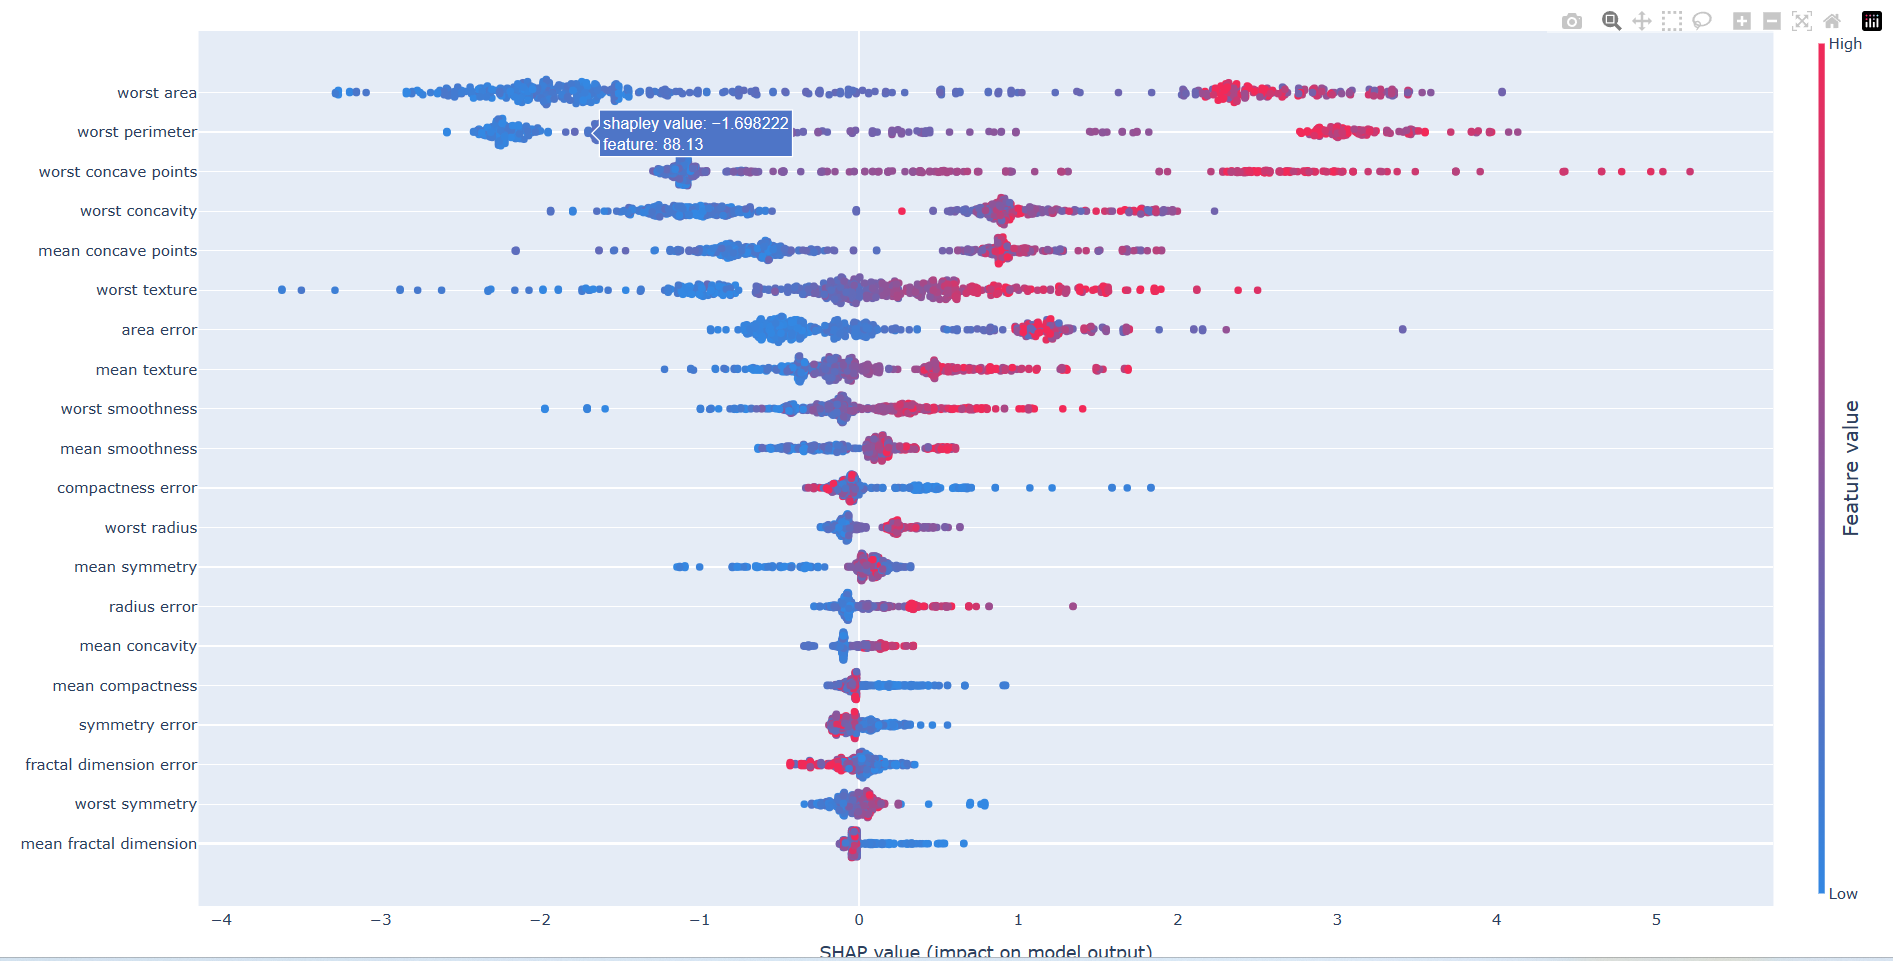
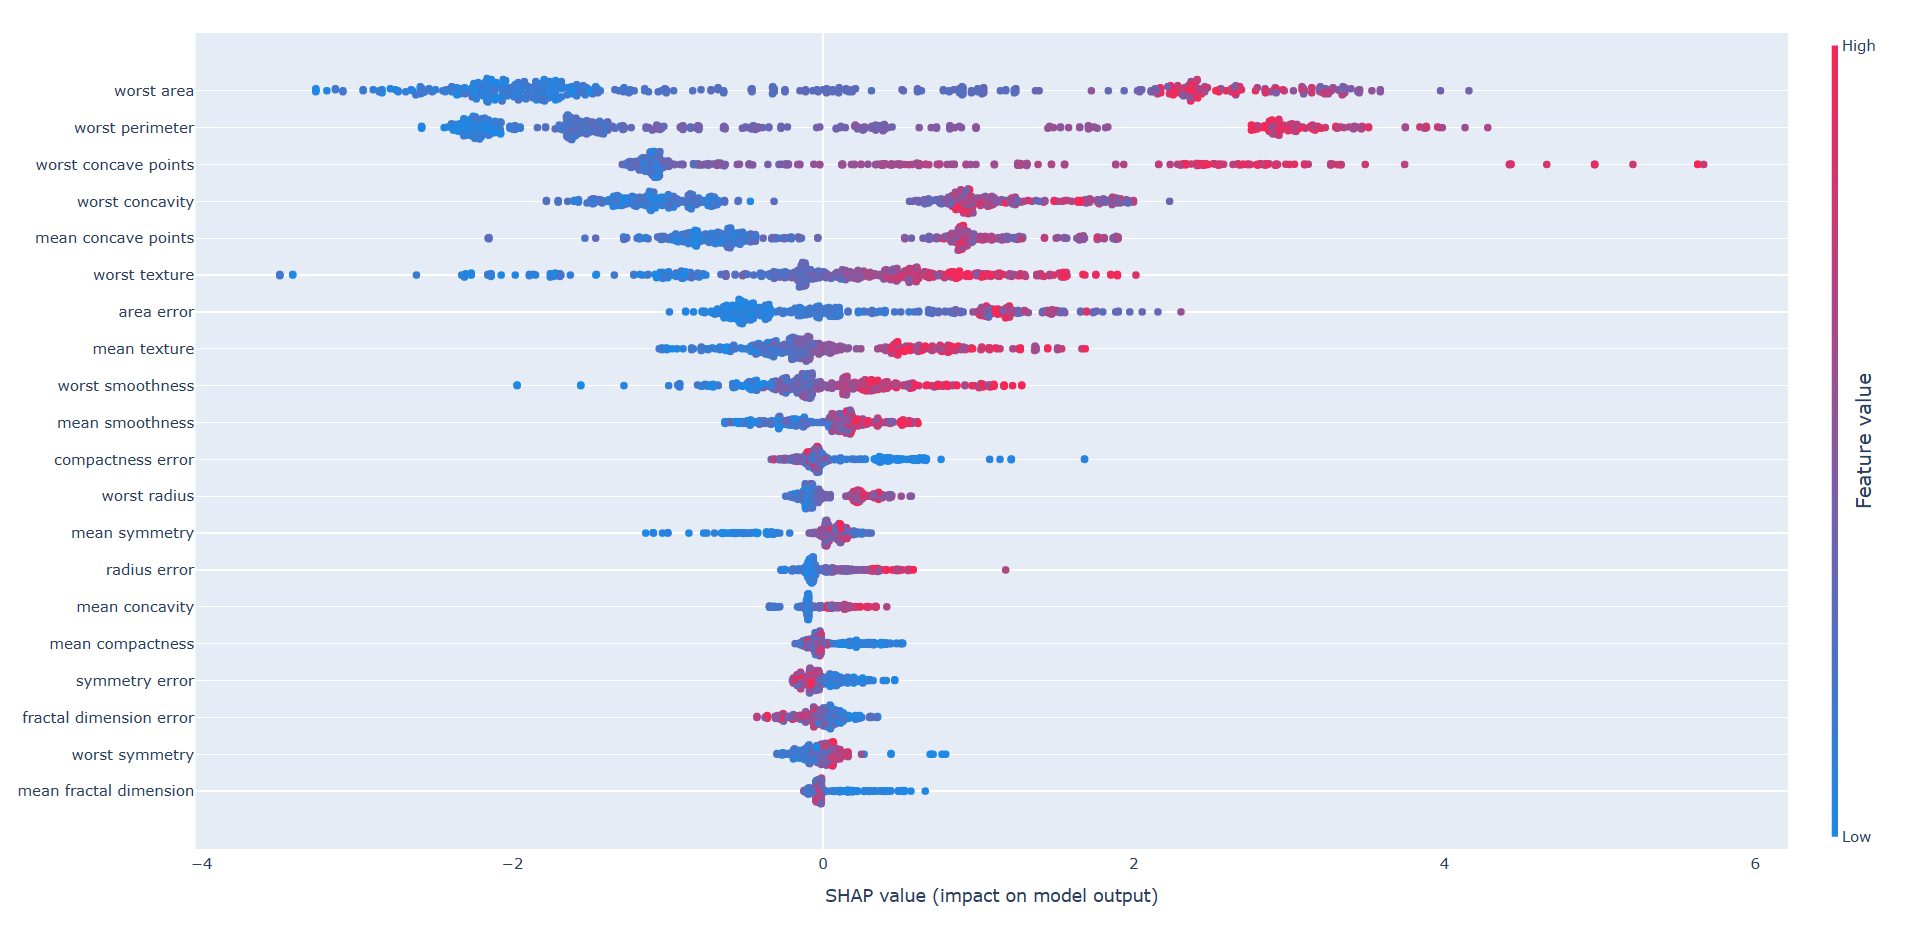
update styles and doc

diff --git a/plots/waterfall.py b/plots/waterfall.py
@@ -2,12 +2,12 @@ import json
 
 import numpy as np
 import plotly.graph_objects as go
-import shap
 
 from .utils import *
 
 
 def render_waterfall(values, feature_names, E_fx, fx, show=False):
+    values = np.round(values, 2)
     fig = go.Figure(
         go.Waterfall(
             orientation="h",
@@ -15,10 +15,13 @@ def render_waterfall(values, feature_names, E_fx, fx, show=False):
             measure=["relative" for _ in range(len(values))],
             y=feature_names,
             x=values,
-            connector={
-                "mode": "between",
-                "line": {"width": 4, "color": "rgb(0, 0, 0)", "dash": "solid"},
-            },
+            texttemplate="%{delta}",
+            textangle=0,
+            decreasing=dict(marker=dict(color="rgb(30, 136, 229)")),
+            increasing=dict(marker=dict(color="rgb(245, 39, 87)")),
+            totals=dict(marker=dict(color="#444444")),
+            connector=dict(line={"width": 4, "color": "#fff"}),
+            textposition="inside",
         )
     )
     fig.add_vline(
@@ -33,8 +36,9 @@ def render_waterfall(values, feature_names, E_fx, fx, show=False):
         annotation_text=f"f(x) = {fx:.2f}",
         annotation_position="top",
     )
+    fig.update_layout(**DEFAULT_LAYOUT)
     if show:
-        fig.show()
+        fig.show(config=DEFAULT_CONFIG)
     return fig.to_plotly_json()
 
 
@@ -77,4 +81,4 @@ def waterfall_plotly(
     fig_json = render_waterfall(values, feature_names, E_fx, fx, show=verbose)
     if save_to is not None:
         with open(save_to, "w", encoding="utf8") as f:
-            json.dump(fig_json, f)
+            json.dump(fig_json, f, cls=NumpyEncoder)

diff --git a/plots/partial_dependence.py b/plots/partial_dependence.py
@@ -6,7 +6,7 @@ import pandas as pd
 import plotly.graph_objects as go
 import shap
 
-from .utils import NumpyEncoder
+from .utils import DEFAULT_CONFIG, DEFAULT_LAYOUT, NumpyEncoder
 
 
 def partial_dependence_plotly(
@@ -81,9 +81,17 @@ def partial_dependence_plotly(
         x0, y0 = shap_values.data[ind], model_expected_value
         x1, y1 = shap_values.data[ind], model(shap_values.data.reshape(1, -1))[0]
         print(x0, y0)
-        fig.add_shape(type="line", x0=x0, y0=y0, x1=x1, y1=y1)
+        fig.add_shape(
+            type="line",
+            x0=x0,
+            y0=y0,
+            x1=x1,
+            y1=y1,
+            line=dict(color="rgb(30, 136, 229)"),
+        )
         fig.add_trace(go.Scatter(x=[x1], y=[y1], mode="markers", hoverinfo="x+y"))
     fig.update_layout(
+        **DEFAULT_LAYOUT,
         xaxis_title_text=target_name,
         yaxis_title_text=f"E[f(x) | {target_name}]",
         yaxis=dict(showgrid=False, autorange=True),
@@ -91,11 +99,9 @@ def partial_dependence_plotly(
             visible=False, overlaying="y", range=[0, features.shape[0]], showgrid=False
         ),
         showlegend=False,
-        paper_bgcolor="white",
-        plot_bgcolor="white",
     )
     if verbose:
-        fig.show()
+        fig.show(config=DEFAULT_CONFIG)
     if save_to is not None:
         with open(save_to, "w", encoding="utf8") as f:
             json.dump(fig.to_plotly_json(), f, cls=NumpyEncoder)

diff --git a/test/testall.py b/test/testall.py
@@ -6,13 +6,13 @@ import sklearn.datasets as D
 from plots import *
 
 
-def load_data(return_data=False):
+def load_data(return_data=False, explainer_cls=shap.Explainer):
     X, y = D.load_breast_cancer(return_X_y=True, as_frame=True)
 
     # explain the model's predictions using SHAP
     # (same syntax works for LightGBM, CatBoost, scikit-learn, transformers, Spark, etc.)
     model = lgb.LGBMClassifier().fit(X, y)
-    explainer = shap.Explainer(model)
+    explainer = explainer_cls(model)
     shap_values: shap.Explanation = explainer(X)[:, :, 0]
     if return_data:
         return model, shap_values, X
@@ -39,7 +39,7 @@ def test_decision():
 
 
 def test_partial_dependence():
-    model, shap_values = load_data()
+    model, shap_values = load_data(explainer_cls=shap.TreeExplainer)
     fid = np.argmax(model.feature_importances_)
     shap.partial_dependence_plot(
         fid,
@@ -72,9 +72,7 @@ def test_summary():
         verbose=True,
         save_to="test.json",
     )
-    shap.summary_plot(
-        shap_values.values, shap_values.data, shap_values.feature_names
-    )
+    shap.summary_plot(shap_values.values, shap_values.data, shap_values.feature_names)
 
 
 def test_waterfall():

diff --git a/plots/decision.py b/plots/decision.py
@@ -5,7 +5,8 @@ import numpy as np
 import plotly.graph_objects as go
 import shap
 
-from .utils import RED_BLUE, NumpyEncoder, get_colors
+from .utils import (DEFAULT_CONFIG, DEFAULT_LAYOUT, RED_BLUE, NumpyEncoder,
+                    get_colors)
 
 
 def decision_data(
@@ -168,6 +169,7 @@ def decision_plotly(
     fig.add_trace(colorbar_trace)
     xdict = dict(range=xlim, zeroline=False, showline=False, showgrid=False)
     fig.update_layout(
+        **DEFAULT_LAYOUT,
         xaxis=dict(title="Model output value", **xdict),
         xaxis2=dict(side="top", **xdict, overlaying="x", ticklabelposition="inside"),
         hovermode="closest",
@@ -180,12 +182,10 @@ def decision_plotly(
             showline=False,
             showgrid=True,
         ),
-        # paper_bgcolor="white",
-        # plot_bgcolor="white",
     )
 
     if verbose:
-        fig.show()
+        fig.show(config=DEFAULT_CONFIG)
     if save_to is not None:
         with open(save_to, "w", encoding="utf8") as f:
             json.dump(fig.to_plotly_json(), f, cls=NumpyEncoder)

diff --git a/plots/summary.py b/plots/summary.py
@@ -3,9 +3,9 @@ from typing import Optional
 
 import numpy as np
 import plotly.graph_objs as go
-import shap
 
-from .utils import RED_BLUE, NumpyEncoder, get_colors, get_minmax, reorder
+from .utils import (DEFAULT_CONFIG, DEFAULT_LAYOUT, RED_BLUE, NumpyEncoder,
+                    get_colors, get_minmax, reorder)
 
 
 def jitter(shaps):
@@ -74,8 +74,7 @@ def summary_plotly(
         )
     fig = go.Figure(data=data)
     fig.update_layout(
-        height=800,
-        # width=500,
+        **DEFAULT_LAYOUT,
         xaxis_title="SHAP value (impact on model output)",
         hovermode="closest",
         showlegend=False,
@@ -109,7 +108,7 @@ def summary_plotly(
     )
     fig.add_trace(colorbar_trace)
     if verbose:
-        fig.show()
+        fig.show(config=DEFAULT_CONFIG)
     if save_to is not None:
         with open(save_to, "w", encoding="utf8") as f:
             json.dump(fig.to_plotly_json(), f, cls=NumpyEncoder)

diff --git a/plots/dependence.py b/plots/dependence.py
@@ -7,7 +7,7 @@ import plotly.express as px
 import shap
 from shap.utils import approximate_interactions, convert_name
 
-from .utils import NumpyEncoder
+from .utils import DEFAULT_CONFIG, DEFAULT_LAYOUT, NumpyEncoder
 
 
 def dependence_plotly(
@@ -52,9 +52,15 @@ def dependence_plotly(
     df[keys[2]][df[keys[2]] < q_5] = q_5
     df[keys[2]][df[keys[2]] > q_95] = q_95
 
-    fig = px.scatter(df, x=keys[0], y=keys[1], color=keys[2])
+    fig = px.scatter(
+        df,
+        x=keys[0],
+        y=keys[1],
+        color=keys[2],
+    )
+    fig.update_layout(**DEFAULT_LAYOUT)
     if verbose:
-        fig.show()
+        fig.show(config=DEFAULT_CONFIG)
     if save_to:
         with open(save_to, "w", encoding="utf8") as f:
             json.dump(fig.to_plotly_json(), f, cls=NumpyEncoder)

diff --git a/plots/utils.py b/plots/utils.py
@@ -71,3 +71,13 @@ def get_colors(metrics: np.ndarray, vmin, vmax):
     colors[colors >= 255] = 254
     colors[colors < 0] = 0
     return reorder(np.array(RED_BLUE)[:, 1], colors)
+
+
+DEFAULT_LAYOUT = dict(
+    # Black Style
+    # paper_bgcolor="#222222",
+    # plot_bgcolor="#222222",
+    # font=dict(color="#fff"),
+    autosize=True,
+)
+DEFAULT_CONFIG = {"scrollZoom": False, "displayModeBar": False}

diff --git a/README.md b/README.md
@@ -18,13 +18,16 @@ This project reimplements these images with [Poltly](https://github.com/plotly/p
 
 ```bash
 pip install -r requirements_dev.txt
+
 pytest test/testall.py
 ```
 
 ![](./doc/dependence.png)
 
-![](./doc/localdep.png)
+![](./doc/partialdep.png)
+
+![](./doc/waterfall.png)
 
 ![](./doc/summary.png)
 
-![](./doc/dependence.png)
+![](./doc/decision.png)
